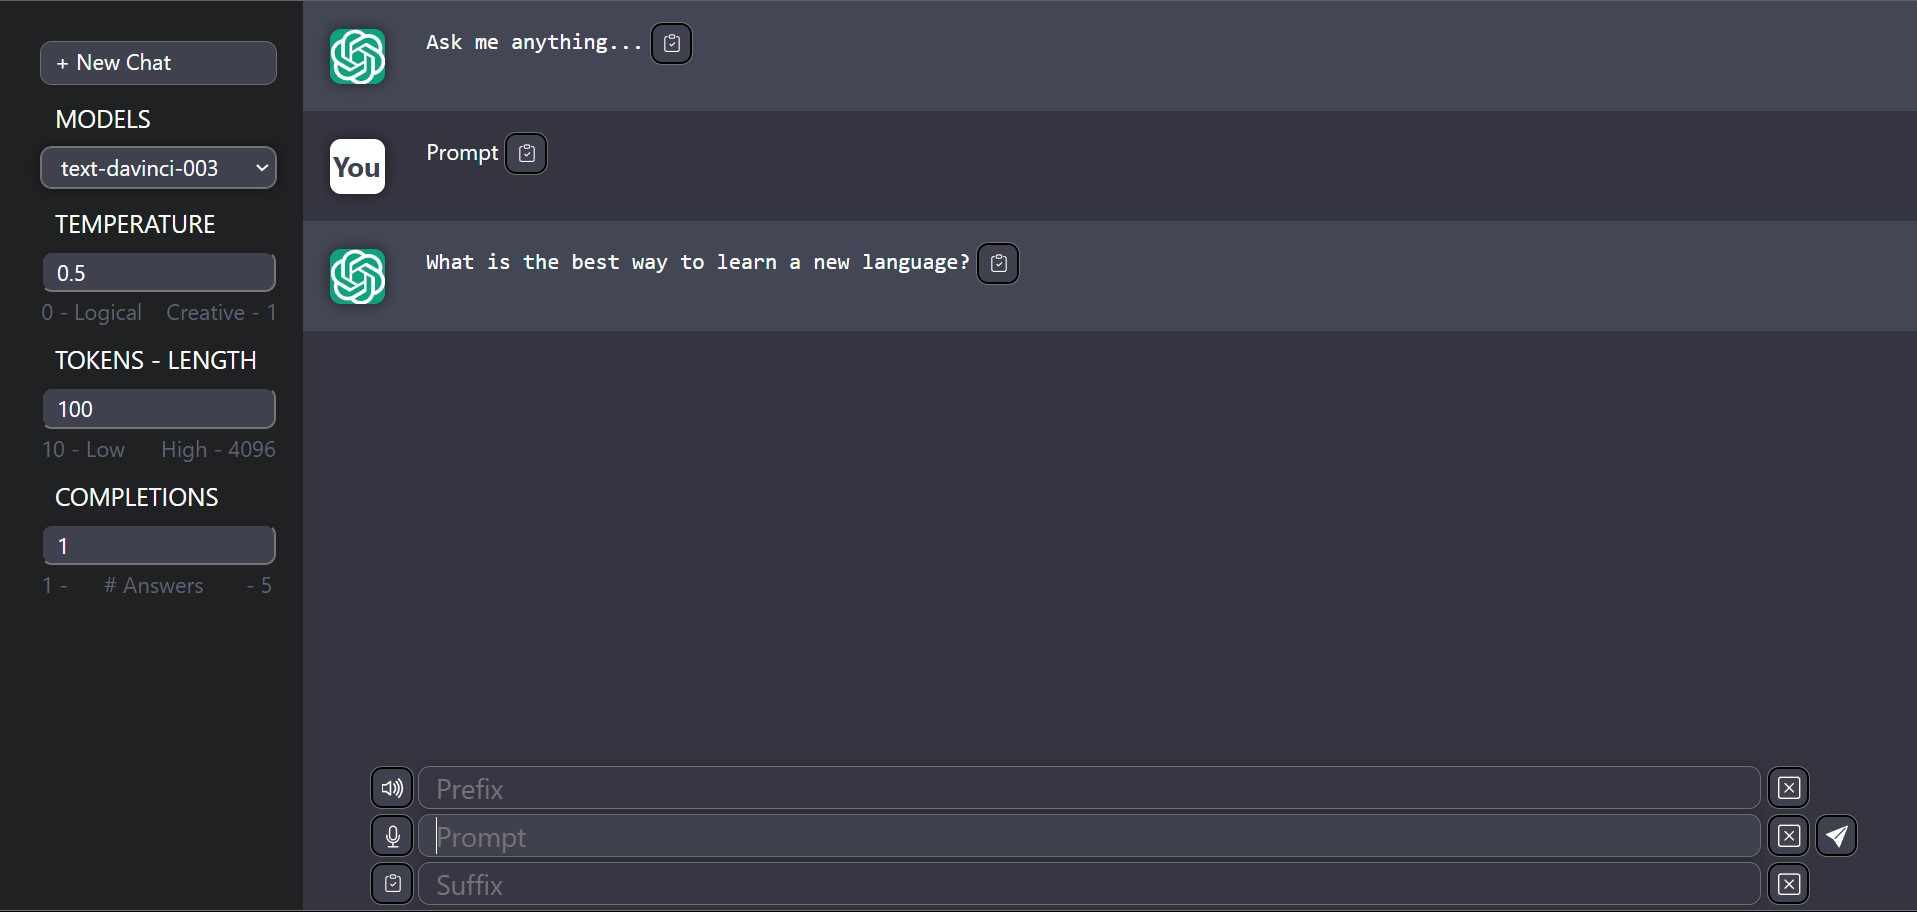
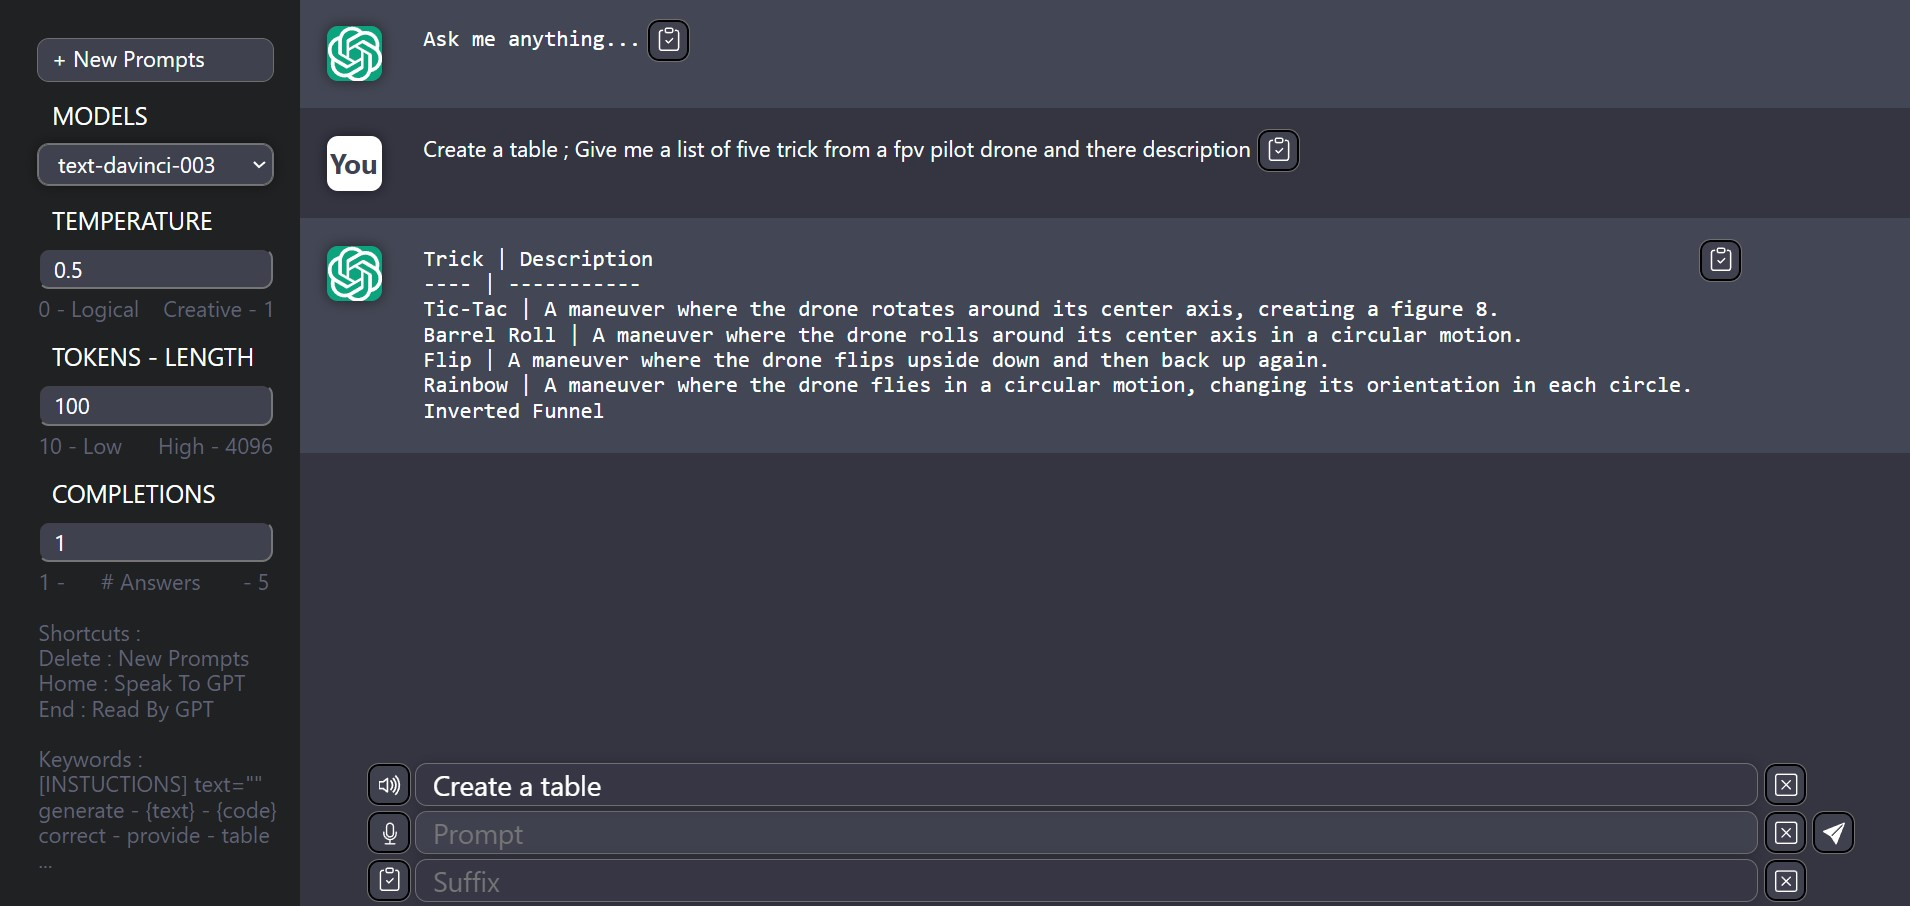
add errors and infos

diff --git a/client/src/App.js b/client/src/App.js
@@ -16,6 +16,8 @@ mic.lang = 'en-US';
  * @public
  */
 function App() {
+  const ERROR_MESSAGE = "Connection Or Compatibility Error";
+
   // MAX_TOKENS defined as integer with a value assigned by parsing the result of "4096" to an integer.
   const MAX_TOKENS = parseInt(4096);
 
@@ -73,10 +75,6 @@ function App() {
   // voice synthesis hook
   const {speak, voices} = useSpeechSynthesis();
 
-  const isBooted = false;
-  // eslint-disable-next-line
-  useEffect(() => {handleEventListerner();}, [isBooted]);
-
   //###################### Async Functions #######################
   /**
    * When the page loads, fetch the data from the server and then set the models state to the data that
@@ -104,14 +102,15 @@ function App() {
    */
   async function handleSubmit(){
     //console.log("**handleSubmit**");
+    if(input === "") return;
     let chatLogNew = [...chatLog];
     if (input !== "") {
       chatLogNew.push({ user:"user", message:`${prefix + (prefix === "" ? "" : " ; ") + input + (suffix === "" ? "" : " ; ") + suffix}` });
     } else {
       chatLogNew.push({ user:"user", message:"Prompt"});
     }
-    const messages = chatLogNew?.map((message) => message.message).join("\n");
     setChatLog(chatLogNew);
+    const messages = chatLogNew?.map((message) => message.message).join("\n");
     setInput("");
     showLoader();
     // Scrool up
@@ -131,15 +130,24 @@ function App() {
         frequency_penalty:1.0,
       })
     });
-    hideLoader();
     const data = await response.json();
-    setChatLog([...chatLogNew,{user:"gpt", message:`${data.message}`}]);
-    //console.log(`${data.message}`);
-    handleReading(`${data.message}`);
-    // Scrool up and read
-    setTimeout(function(){
-      document.getElementsByClassName("chatbox")[0].scrollTo(0, document.getElementsByClassName("chat-log")[0].clientHeight);
-    }, 200);
+    if(data.message !== ERROR_MESSAGE){
+      setChatLog([...chatLogNew,{user:"gpt", message:`${data.message}`}]);
+      //console.log(`${data.message}`);
+      handleReading(`${data.message}`);
+      // Scrool up
+      setTimeout(function(){
+        document.getElementsByClassName("chatbox")[0].scrollTo(0, document.getElementsByClassName("chat-log")[0].clientHeight);
+      }, 200);
+    }
+    else{
+        console.log(ERROR_MESSAGE);
+        document.getElementsByClassName("errors")[0].value = ERROR_MESSAGE;
+        setTimeout(function(){
+          document.getElementsByClassName("errors")[0].value = "";
+        }, 2000);
+    }
+    hideLoader();
   }
   //###################### END Async Functions #######################
 
@@ -231,7 +239,7 @@ function App() {
   * It also sets an 'onstart' event listener which shows the recorder, and an 'onresult'
   * event listener which sets the input to the transcript of what was said. Finally, it sets an 'onerror' event listener which logs any errors that occur.
   */
-  const handleIsListening = (e) => {
+  const handleIsListening = () => {
     //console.log("handleIsListening passed");
     if (isListening) {
       mic.start();
@@ -298,14 +306,12 @@ function App() {
         setIsListening(prevState => !prevState);
       } else if (event.keyCode === 35) {//home key
         setIsReading(prevState => !prevState);
+      } else if (event.keyCode === 46) {//home key
+        clearChat();
       }
     },0.0001);
   };
-
-  function handleEventListerner() {
-    //console.log('addEventListernerCalled called!');
-    document.addEventListener("keydown", keyEventHandler);
-  }
+  document.addEventListener("keydown", keyEventHandler);
 
   // This function cycle through history
   function cycleHistory(index){
@@ -326,7 +332,7 @@ function App() {
     <div className="App">
       <aside className="sidemenu">
           <div className="side-menu-button" onClick={(e) => {clearChat()}}>
-            <span>+ </span>New Chat
+            <span>+ </span>New Prompts
           </div>
         <div className="models">
         <div className="tool-text">MODELS</div>
@@ -340,18 +346,29 @@ function App() {
         </div>
         <div>
           <div className="tool-text">TEMPERATURE</div>
-          <input className="side-menu-button-input" type="number" max="1" min="0" rows="1" step="0.1" value={temperature} onChange={(e) => setTemperature(e.target.value)} />
-          <div className='min-max-infos'>0 - Logical&nbsp;&nbsp;&nbsp;&nbsp;Creative - 1</div>
+          <input className="side-menu-button-input" onChange={(e) => setTemperature(e.target.value)} value={temperature} type="number" max="1" min="0" rows="1" step="0.1" />
+          <div className='infos'>0 - Logical&nbsp;&nbsp;&nbsp;&nbsp;Creative - 1</div>
         </div>
         <div>
           <div className="tool-text">TOKENS - LENGTH</div>
-          <input className="side-menu-button-input" type="number" max={MAX_TOKENS} min="10" rows="1" step="10" value={maxTokens} onChange={(e) => setMaxTokens(e.target.value)} />
-          <div className='min-max-infos'>10 - Low&nbsp;&nbsp;&nbsp;&nbsp;&nbsp;&nbsp;High - {MAX_TOKENS}</div>
+          <input className="side-menu-button-input" onChange={(e) => setMaxTokens(e.target.value)} type="number" max={MAX_TOKENS} min="10" rows="1" step="10" value={maxTokens}  />
+          <div className='infos'>10 - Low&nbsp;&nbsp;&nbsp;&nbsp;&nbsp;&nbsp;High - {MAX_TOKENS}</div>
         </div>
         <div>
           <div className="tool-text">COMPLETIONS</div>
-          <input className="side-menu-button-input"  type="number" max="5" min="1" rows="1" step="1" value={n} onChange={(e) => {setN(e.target.value); setBest_of(e.target.value);}}/>
-          <div className='min-max-infos'>1 -&nbsp;&nbsp;&nbsp;&nbsp;&nbsp;&nbsp;# Answers&nbsp;&nbsp;&nbsp;&nbsp;&nbsp;&nbsp;&nbsp;- 5</div>
+          <input className="side-menu-button-input" onChange={(e) => {setN(e.target.value); setBest_of(e.target.value);}}  type="number" max="5" min="1" rows="1" step="1" value={n} />
+          <div className='infos'>1 -&nbsp;&nbsp;&nbsp;&nbsp;&nbsp;&nbsp;# Answers&nbsp;&nbsp;&nbsp;&nbsp;&nbsp;&nbsp;&nbsp;- 5</div>
+          <div className='infos'>&nbsp;</div>
+          <div className='infos'>Shortcuts :</div>
+          <div className='infos'>Delete : New Prompts</div>
+          <div className='infos'>Home : Speak To GPT</div>
+          <div className='infos'>End : Read By GPT</div>
+          <div className='infos'>&nbsp;</div>
+          <div className='infos'>Keywords :</div>
+          <div className='infos'>[INSTUCTIONS] text=""</div>
+          <div className='infos'>generate - {"{text}"} - {"{code}"}</div>
+          <div className='infos'>correct - provide - table</div>
+          <div className='infos'>...</div>
         </div>
       </aside>
       <section className="chatbox">
@@ -364,9 +381,9 @@ function App() {
           <div className="form1" onKeyDown={(e) => {e.keyCode === 13 && handleSubmit()}}>
             <input type="text" className="chat-input-textarea" placeholder="Prompt" autoFocus rows="1" value={input} onChange={(e) => setInput(e.target.value)} />
           </div>
-          <input className="chat-input-textarea-prefix" placeholder='Prefix' value={prefix} onChange={(e) => setPrefix(e.target.value)}/>
-          <input className="chat-input-textarea-suffix" placeholder='Suffix' value={suffix} onChange={(e) => setSuffix(e.target.value)}/>
-          <button className='send-button' type="button"  title="Send Prompt to GPT" onClick={(e)=>{handleSubmit()}} tabIndex="-1" onFocus={(e) => {focusTheTextArea()}}>
+          <input className="chat-input-textarea-prefix" onChange={(e) => setPrefix(e.target.value)} placeholder='Prefix' value={prefix} />
+          <input className="chat-input-textarea-suffix" onChange={(e) => setSuffix(e.target.value)} placeholder='Suffix' value={suffix} />
+          <button className='send-button' onClick={(e)=>{handleSubmit()}} tabIndex="-1" onFocus={(e) => {focusTheTextArea()}}type="button"  title="Send Prompt to GPT" >
             <svg width="16" height="27" fill="currentColor" viewBox="0 0 16 16"><path d="M15.964.686a.5.5 0 0 0-.65-.65L.767 5.855H.766l-.452.18a.5.5 0 0 0-.082.887l.41.26.001.002 4.995 3.178 3.178 4.995.002.002.26.41a.5.5 0 0 0 .886-.083l6-15Zm-1.833 1.89L6.637 10.07l-.215-.338a.5.5 0 0 0-.154-.154l-.338-.215 7.494-7.494 1.178-.471-.47 1.178Z"/></svg>
           </button>
           <button className='record-voice-button' type="button" title="Record Voice To Prompt - Shortcut : Home"onClick={() => setIsListening(prevState => !prevState)}>
@@ -388,13 +405,14 @@ function App() {
               <svg width="20" height="20" fill="currentColor" viewBox="0 0 16 16"><path d="M6.717 3.55A.5.5 0 0 1 7 4v8a.5.5 0 0 1-.812.39L3.825 10.5H1.5A.5.5 0 0 1 1 10V6a.5.5 0 0 1 .5-.5h2.325l2.363-1.89a.5.5 0 0 1 .529-.06zM6 5.04 4.312 6.39A.5.5 0 0 1 4 6.5H2v3h2a.5.5 0 0 1 .312.11L6 10.96V5.04zm7.854.606a.5.5 0 0 1 0 .708L12.207 8l1.647 1.646a.5.5 0 0 1-.708.708L11.5 8.707l-1.646 1.647a.5.5 0 0 1-.708-.708L10.793 8 9.146 6.354a.5.5 0 1 1 .708-.708L11.5 7.293l1.646-1.647a.5.5 0 0 1 .708 0z"/></svg>
             </div>
           </button>
-          <button className='clear-button' type="button" title="Clear Input" onClick={(e)=> {setInput("")}} onFocus={focusTheTextArea}>
+          <div className='errors'></div>
+          <button className='clear-button' onClick={(e)=> {setInput("")}} onFocus={focusTheTextArea} type="button" title="Clear Input" >
             <svg width="20" height="20" fill="currentColor" viewBox="0 -4 20 20"><path d="M14 1a1 1 0 0 1 1 1v12a1 1 0 0 1-1 1H2a1 1 0 0 1-1-1V2a1 1 0 0 1 1-1h12zM2 0a2 2 0 0 0-2 2v12a2 2 0 0 0 2 2h12a2 2 0 0 0 2-2V2a2 2 0 0 0-2-2H2z"/><path d="M4.646 4.646a.5.5 0 0 1 .708 0L8 7.293l2.646-2.647a.5.5 0 0 1 .708.708L8.707 8l2.647 2.646a.5.5 0 0 1-.708.708L8 8.707l-2.646 2.647a.5.5 0 0 1-.708-.708L7.293 8 4.646 5.354a.5.5 0 0 1 0-.708z"/></svg>
           </button>
-          <button className='clear-button-prefix' type="button" title="Clear Input" onClick={(e)=> {setPrefix("")}} onFocus={focusTheTextArea}>
+          <button className='clear-button-prefix' onClick={(e)=> {setPrefix("")}} onFocus={focusTheTextArea} type="button" title="Clear Input" >
             <svg width="20" height="20" fill="currentColor" viewBox="0 -4 20 20"><path d="M14 1a1 1 0 0 1 1 1v12a1 1 0 0 1-1 1H2a1 1 0 0 1-1-1V2a1 1 0 0 1 1-1h12zM2 0a2 2 0 0 0-2 2v12a2 2 0 0 0 2 2h12a2 2 0 0 0 2-2V2a2 2 0 0 0-2-2H2z"/><path d="M4.646 4.646a.5.5 0 0 1 .708 0L8 7.293l2.646-2.647a.5.5 0 0 1 .708.708L8.707 8l2.647 2.646a.5.5 0 0 1-.708.708L8 8.707l-2.646 2.647a.5.5 0 0 1-.708-.708L7.293 8 4.646 5.354a.5.5 0 0 1 0-.708z"/></svg>
           </button>
-          <button className='clear-button-suffix' type="button" title="Clear Input" onClick={(e)=> {setSuffix("")}} onFocus={focusTheTextArea}>
+          <button className='clear-button-suffix' onClick={(e)=> {setSuffix("")}} onFocus={focusTheTextArea} type="button" title="Clear Input" >
             <svg width="20" height="20" fill="currentColor" viewBox="0 -4 20 20"><path d="M14 1a1 1 0 0 1 1 1v12a1 1 0 0 1-1 1H2a1 1 0 0 1-1-1V2a1 1 0 0 1 1-1h12zM2 0a2 2 0 0 0-2 2v12a2 2 0 0 0 2 2h12a2 2 0 0 0 2-2V2a2 2 0 0 0-2-2H2z"/><path d="M4.646 4.646a.5.5 0 0 1 .708 0L8 7.293l2.646-2.647a.5.5 0 0 1 .708.708L8.707 8l2.647 2.646a.5.5 0 0 1-.708.708L8 8.707l-2.646 2.647a.5.5 0 0 1-.708-.708L7.293 8 4.646 5.354a.5.5 0 0 1 0-.708z"/></svg>
           </button>
         </div>
@@ -428,7 +446,7 @@ const ChatMessage = ({message}) => {
           {message.user === "user" &&
             <span className='simple-message'>{message.message}</span>}
         </div>
-        <button className="copy-current-button" title="Copy To Clipboard" onClick={(e)=> {navigator.clipboard.writeText(message.message)}}>
+        <button className="copy-current-button" onClick={(e)=> {navigator.clipboard.writeText(message.message)}} title="Copy To Clipboard" >
           <div>
             <svg width="18" height="18" fill="currentColor" viewBox="1 -1 16 17"><path d="M10.854 7.146a.5.5 0 0 1 0 .708l-3 3a.5.5 0 0 1-.708 0l-1.5-1.5a.5.5 0 1 1 .708-.708L7.5 9.793l2.646-2.647a.5.5 0 0 1 .708 0z"/><path d="M4 1.5H3a2 2 0 0 0-2 2V14a2 2 0 0 0 2 2h10a2 2 0 0 0 2-2V3.5a2 2 0 0 0-2-2h-1v1h1a1 1 0 0 1 1 1V14a1 1 0 0 1-1 1H3a1 1 0 0 1-1-1V3.5a1 1 0 0 1 1-1h1v-1z"/><path d="M9.5 1a.5.5 0 0 1 .5.5v1a.5.5 0 0 1-.5.5h-3a.5.5 0 0 1-.5-.5v-1a.5.5 0 0 1 .5-.5h3zm-3-1A1.5 1.5 0 0 0 5 1.5v1A1.5 1.5 0 0 0 6.5 4h3A1.5 1.5 0 0 0 11 2.5v-1A1.5 1.5 0 0 0 9.5 0h-3z"/></svg>
           </div>

diff --git a/index.js b/index.js
@@ -8,8 +8,7 @@
  */
 
 // Messages for display in case of connectivity or compatibility errors.
-const CONNECTION_ERROR_MESSAGE = ":( The connection to the server failed. Press [+ New Chat], to retry if possible o7" ;
-const COMPATIBILITY_ERROR_MESSAGE = ":( This model is not compatible with nthis implementation or has failed to connect. Please change the model or press + New Chat. o7"
+const ERROR_MESSAGE = "Connection Or Compatibility Error";
 
 //NPM packages: openai, express, bodyParser and cors.
 const { Configuration, OpenAIApi } = require("openai");
@@ -49,12 +48,12 @@ app.post('/', async (req, res) => {
             best_of: Number(`${best_of}`),
         });
         let choices = response.data.choices?.map(choice => choice.text)
-        .join('\n ________________________________________________________________________________\n')
+        .join('\n_________________________________')
         .trimStart();
         res.json({ message: choices });
     }
     catch(error){
-        res.json({ message: COMPATIBILITY_ERROR_MESSAGE });
+        res.json({ message: ERROR_MESSAGE });
     }
 });
 
@@ -65,7 +64,7 @@ app.get('/models', async (req, res) => {
         res.json({models: response.data.data});
     }
     catch (error) {
-        res.json({ message: CONNECTION_ERROR_MESSAGE });
+        res.json({ message: ERROR_MESSAGE });
     }
 });
 

diff --git a/client/src/App.css b/client/src/App.css
@@ -46,8 +46,22 @@
   width: 90%;
 }
 
-.min-max-infos{
+.infos{
   color:#616378;
+}
+
+.errors{
+  color:#a92626;
+  border-radius: 8px;
+  bottom: 110px;
+  left: 320px;
+  position: fixed;
+  transition: ease 0.2s all;
+  animation: errorsAnimation 0.2s;
+  animation-delay: 0s;
+  animation-duration: 0.5s;
+  animation-iteration-count: infinite;
+  animation-play-state: running;
 }
 
 .side-menu-button-text:hover {
@@ -451,5 +465,20 @@
     font-size: 16px;
   }
 }
+
+@keyframes errorsAnimation {
+  0% {
+    opacity: 100%;
+  }
+
+  50% {
+    opacity: 50%;
+  }
+
+  100% {
+    opacity: 100%;
+  }
+}
+
 
 /**/
